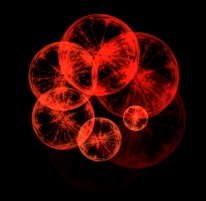
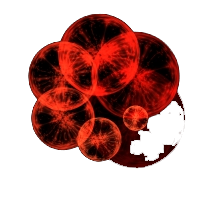
add effects(beta)

diff --git a/Main.py b/Main.py
@@ -1,6 +1,7 @@
 import pygame
 import sys
 import files
+import os
 
 fileManager = files.fileManager()
 pygame.init()
@@ -25,8 +26,6 @@ canvas = pygame.display.set_mode((WINDOW_WIDTH, WINDOW_HEIGHT))
 pygame.display.set_caption('Лицарський двіж')
 
 
-
-
 class Flames:
     def __init__(self):
         self.flames = pygame.image.load('Rus\\fire.png')
@@ -34,13 +33,30 @@ class Flames:
         self.flames_img_rect = self.flames_img.get_rect()
         self.flames_img_rect.right = dragon.dragon_img_rect.left
         self.flames_img_rect.top = dragon.dragon_img_rect.top + 50
-
     def update(self):
         canvas.blit(self.flames_img, self.flames_img_rect)
         if self.flames_img_rect.left > 0:
             self.flames_img_rect.left-=10
 
-
+class Effect:
+    def __init__(self, path, count, x, y):
+        self.anim_images = []
+        for i in range(count):
+            self.anim_images.append(pygame.transform.scale(pygame.image.load(path + str(i + 1) + '.png'), [110, 109]))
+        self.anim_id = 0
+        self.count = count
+        self.effect_img = self.anim_images[self.anim_id]
+        self.effect_img_rect = self.effect_img.get_rect(left = x, top = y)
+        self.duration = 5
+    def update(self, canvas):
+        if self.duration == 5:
+            self.duration = 0
+            if self.anim_id == self.count:
+                self.anim_id = 0
+            self.effect_img = self.anim_images[self.anim_id]
+            canvas.blit(self.effect_img, self.effect_img_rect)
+            self.anim_id += 1
+        self.duration += 1
 
 def shopLoop():
     global error_text
@@ -52,6 +68,7 @@ def shopLoop():
     items = shop.items
     items_x = 400
     items_y = 50
+    effect_list = []
     button_list = []
     balance = font.render("Ваш баланс: " + str(shop.getBalance()), 1, (0, 0, 0))
     while True:
@@ -66,12 +83,23 @@ def shopLoop():
             elif item['file'] == shop.getSkin():
                 locals().update({'button{}'.format(item['id']): pygame.transform.scale(pygame.image.load("Rus\\selected.png"), [140, 15])})
                 locals().update({'button{}_rect'.format(item['id']): eval("button{}".format(item['id'])).get_rect(top=items_y + 180, right=items_x+120)})
+            elif item['file'] == shop.getEffect():
+                locals().update({'button{}'.format(item['id']): pygame.transform.scale(pygame.image.load("Rus\\selected.png"), [140, 15])})
+                locals().update({'button{}_rect'.format(item['id']): eval("button{}".format(item['id'])).get_rect(top=items_y + 180, right=items_x+120)})
             else:
                 locals().update({'button{}'.format(item['id']): pygame.image.load("Rus\\equip_button.png")})
                 locals().update({'button{}_rect'.format(item['id']): eval("button{}".format(item['id'])).get_rect(top=items_y + 180, right=items_x+60)})
             canvas.blit(font.render("Ціна: " + str(shop.find(item["id"], 'price')), 1, (0, 0, 0)), [items_x, items_y + 150])
-            button_list.append([eval("button{}_rect".format(item['id'])), item['id'], item['inShop']])
-            canvas.blit(pygame.transform.scale(pygame.image.load("Rus\\{}".format(item['file'])), (112, 150)), [items_x, items_y])
+            button_list.append([eval("button{}_rect".format(item['id'])), item['id'], item['inShop'], item['type']])
+            if item['type'] == 'skin':
+                canvas.blit(pygame.transform.scale(pygame.image.load("Rus\\{}".format(item['file'])), (112, 150)), [items_x, items_y])
+            elif item['type'] == 'effect':
+                path = 'Rus/' + item['file'] + '/'
+                effect_anim_count = len([f for f in os.listdir(path)
+                                            if os.path.isfile(os.path.join(path, f))])
+                locals().update({"effect{}".format(item['id']): Effect(path, effect_anim_count, items_x, items_y)})
+                effect_list.append(eval("effect{}".format(item['id'])))
+
             canvas.blit(eval("button{}".format(item['id'])), eval("button{}_rect".format(item['id'])))
             items_x += 150
             items.remove(item)
@@ -97,6 +125,8 @@ def shopLoop():
                 if event.key == pygame.K_ESCAPE:
                     start_game()
                     break
+        for i in effect_list:
+            i.update(canvas)
         canvas.blit(font.render(error_text, 1, (248, 0, 0)), [20, 130])
         canvas.blit(balance, [20, 100])
         pygame.display.update()

diff --git a/shop.py b/shop.py
@@ -52,10 +52,10 @@ class Shop:
     def __init__(self):
         if not os.path.exists("shop.csv"):
             files.fileManager.createFile("shop.csv", {
-                'type': ['skin', 'skin', 'skin', 'skin', 'skin', 'skin', 'skin'],
-                'inShop': ['1', '1', '1', '1', '1', '0', '1'],
-                'price': ['10000', '7500', '7500', '5000', '5000', '0', '5000'],
-                'file':  ['skin_1.png', 'skin_2.png', 'skin_3.png', 'skin_4.png', 'skin_5.png', 'skin_6.png', 'skin_7.png']
+                'type': ['skin', 'skin', 'skin', 'skin', 'skin', 'skin', 'skin', 'effect'],
+                'inShop': ['1', '1', '1', '1', '1', '0', '1', '1'],
+                'price': ['10000', '7500', '7500', '5000', '5000', '0', '5000', '50000'],
+                'file':  ['skin_1.png', 'skin_2.png', 'skin_3.png', 'skin_4.png', 'skin_5.png', 'skin_6.png', 'skin_7.png', 'effect_1']
             })
         self.__fileManager = files.fileManager()
         self.balance = self.getBalance
